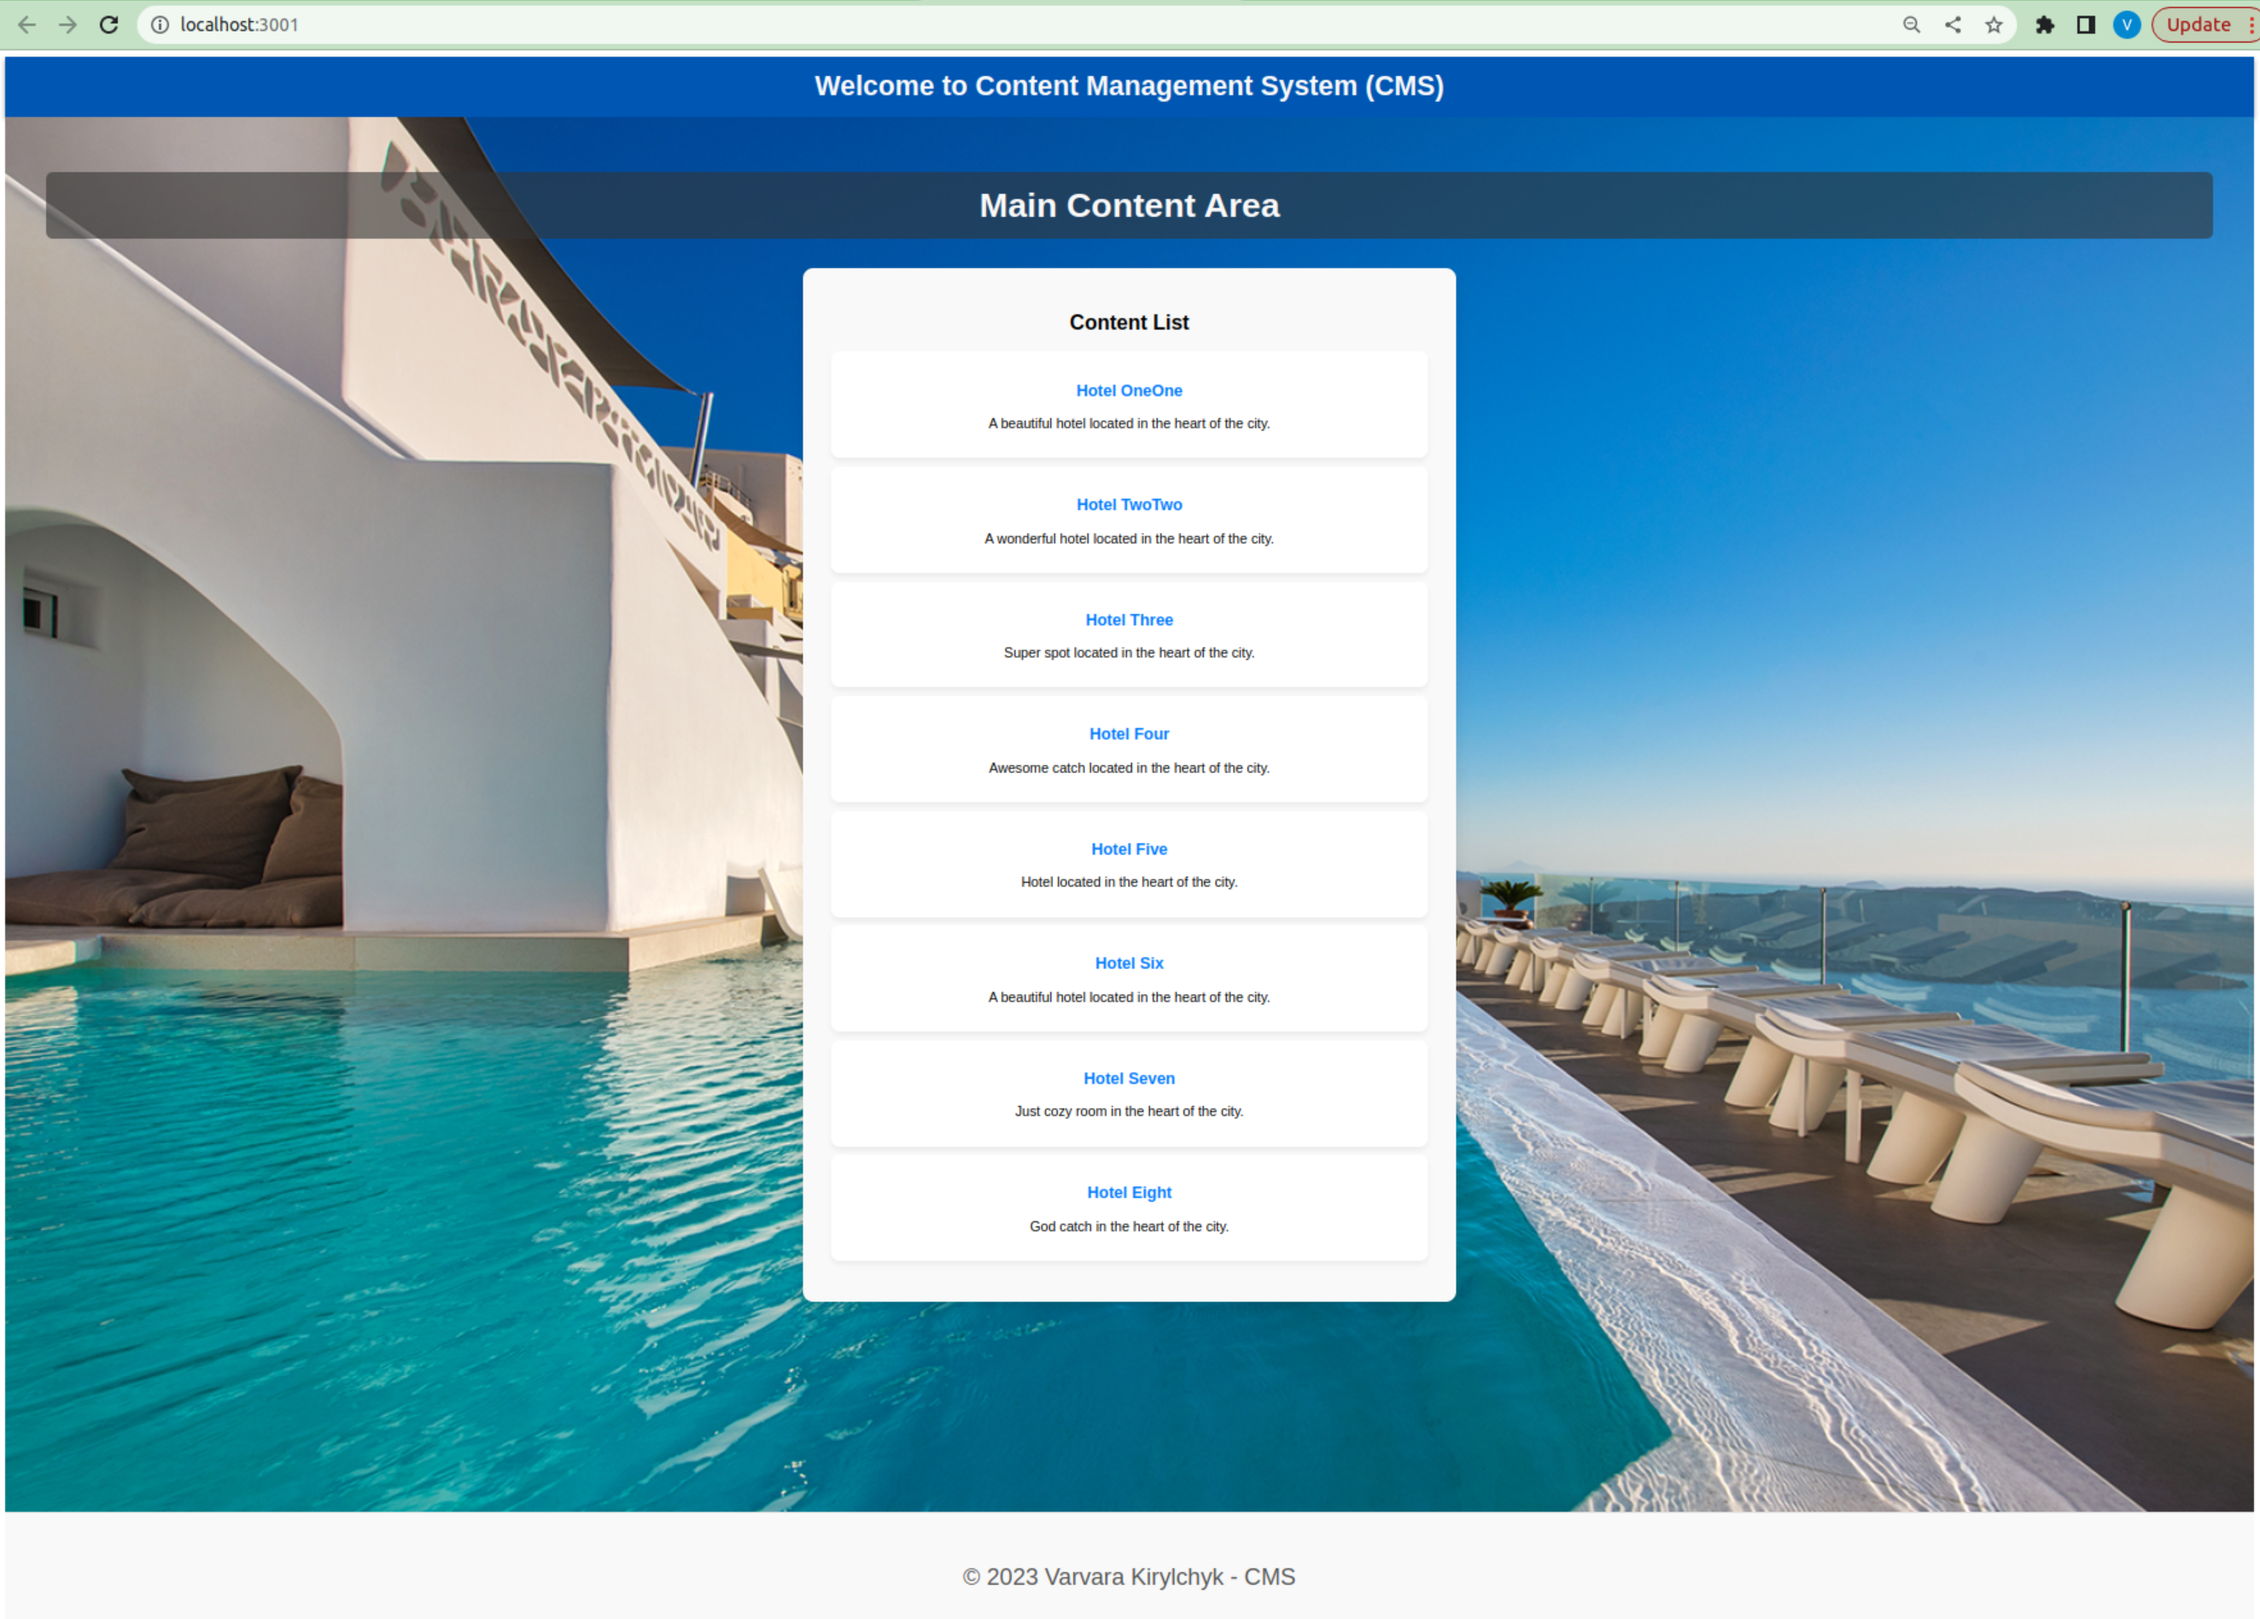
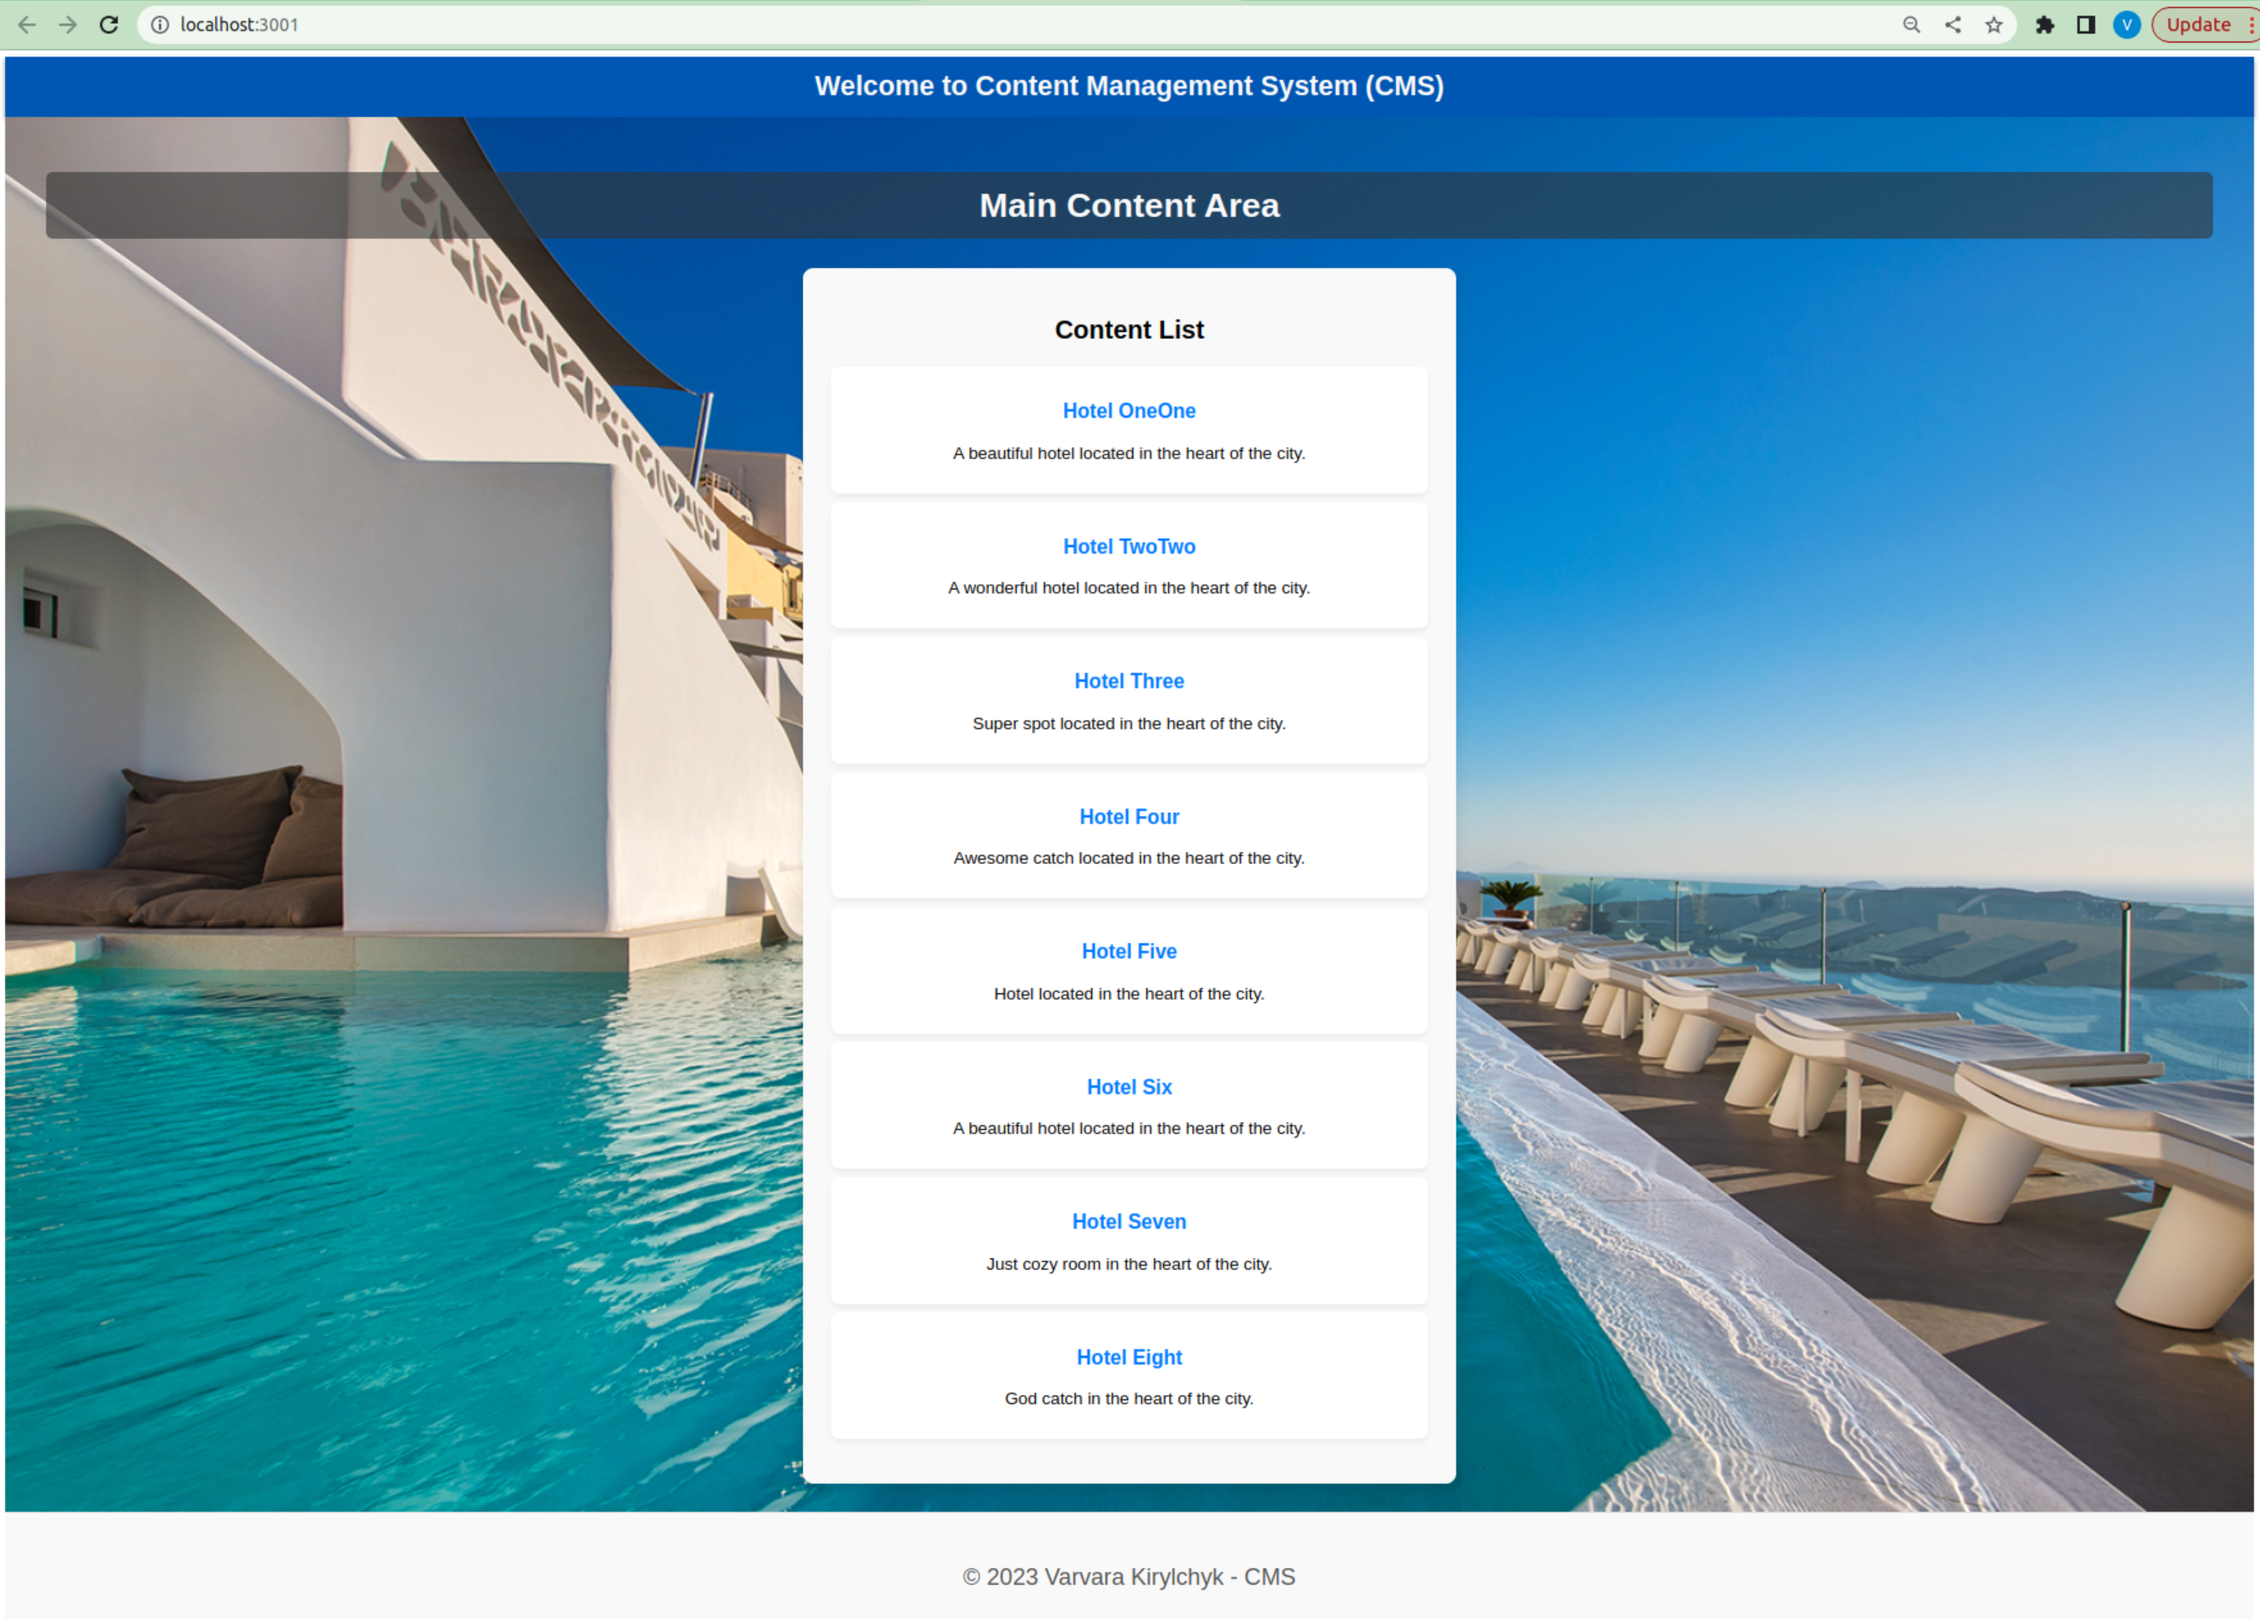
change_06_updated_readme

Changed region(s): [[0.3408, 0.6535, 0.6505, 0.9335], [0.4337, 0.1867, 0.5886, 0.6224]]

diff --git a/frontend/src/components/ContentList/ContentList.module.css b/frontend/src/components/ContentList/ContentList.module.css
@@ -7,6 +7,7 @@
     border-radius: 12px;
     background: #f9f9f9;
     box-shadow: 0 8px 16px rgba(0, 0, 0, 0.1);
+    font-size: 20px;
 }
 
 .list {
@@ -58,6 +59,7 @@ input {
     border: 1px solid #ddd;
     margin-right: 1rem;
     transition: border-color 0.2s;
+    font-size: 20px;
 }
 
 input:focus {
